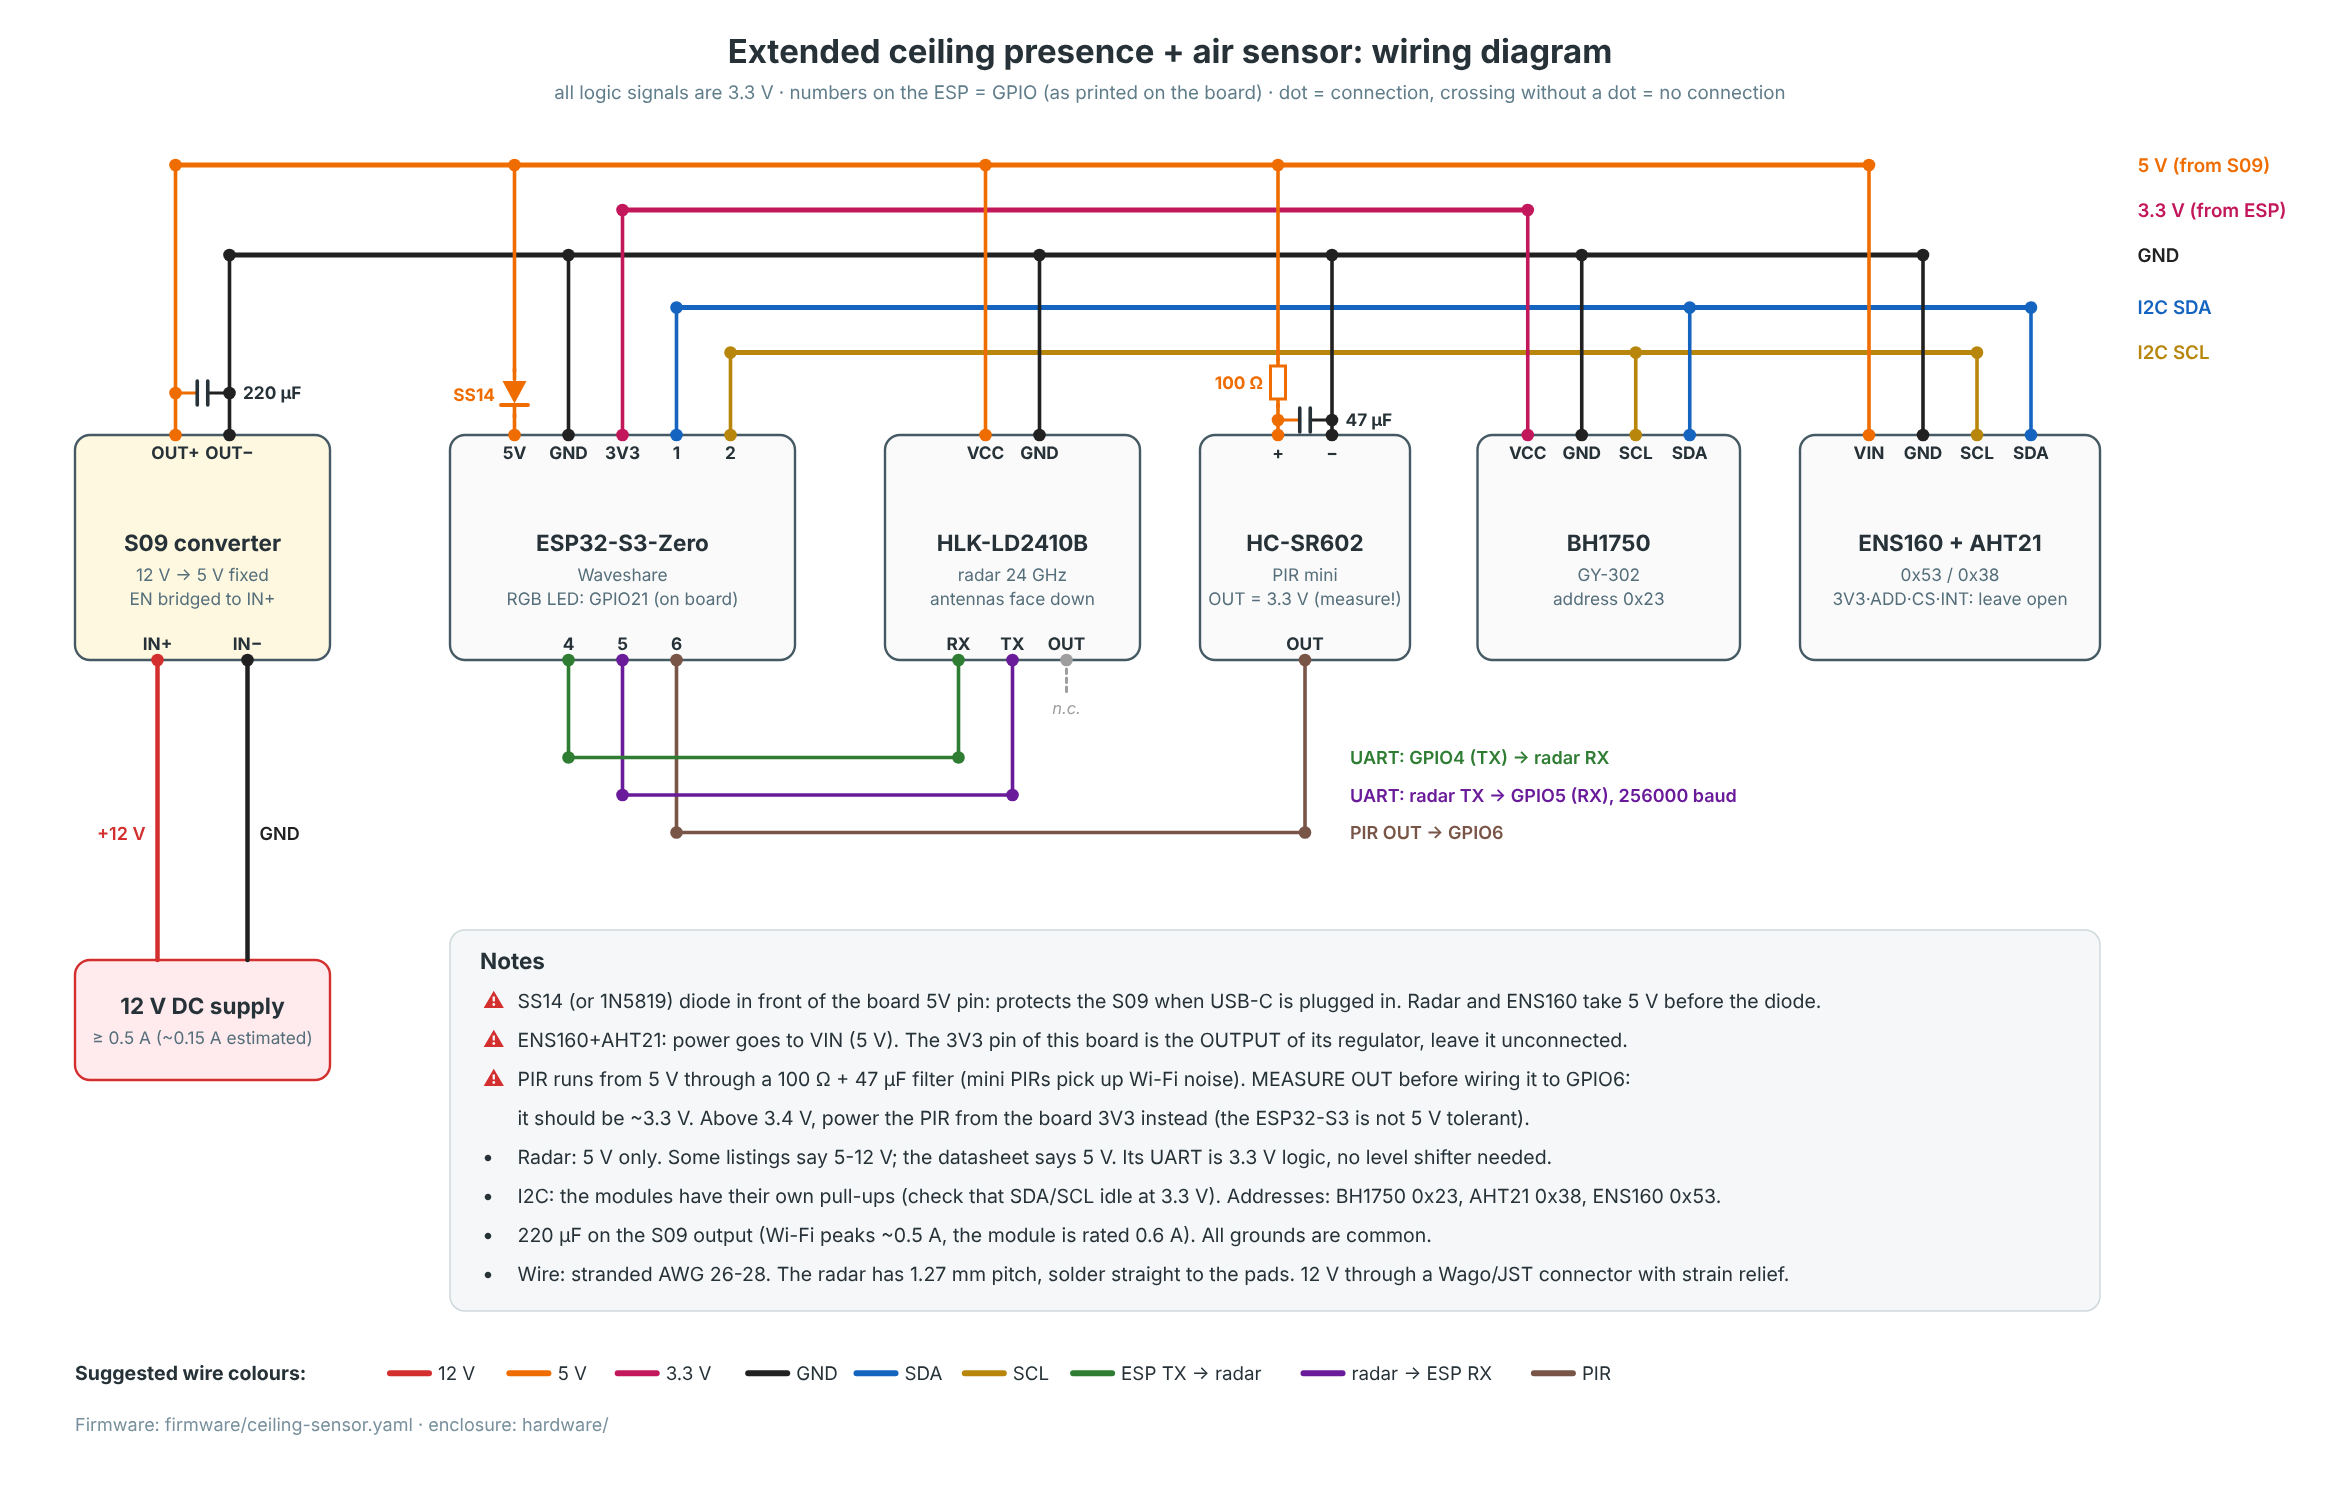
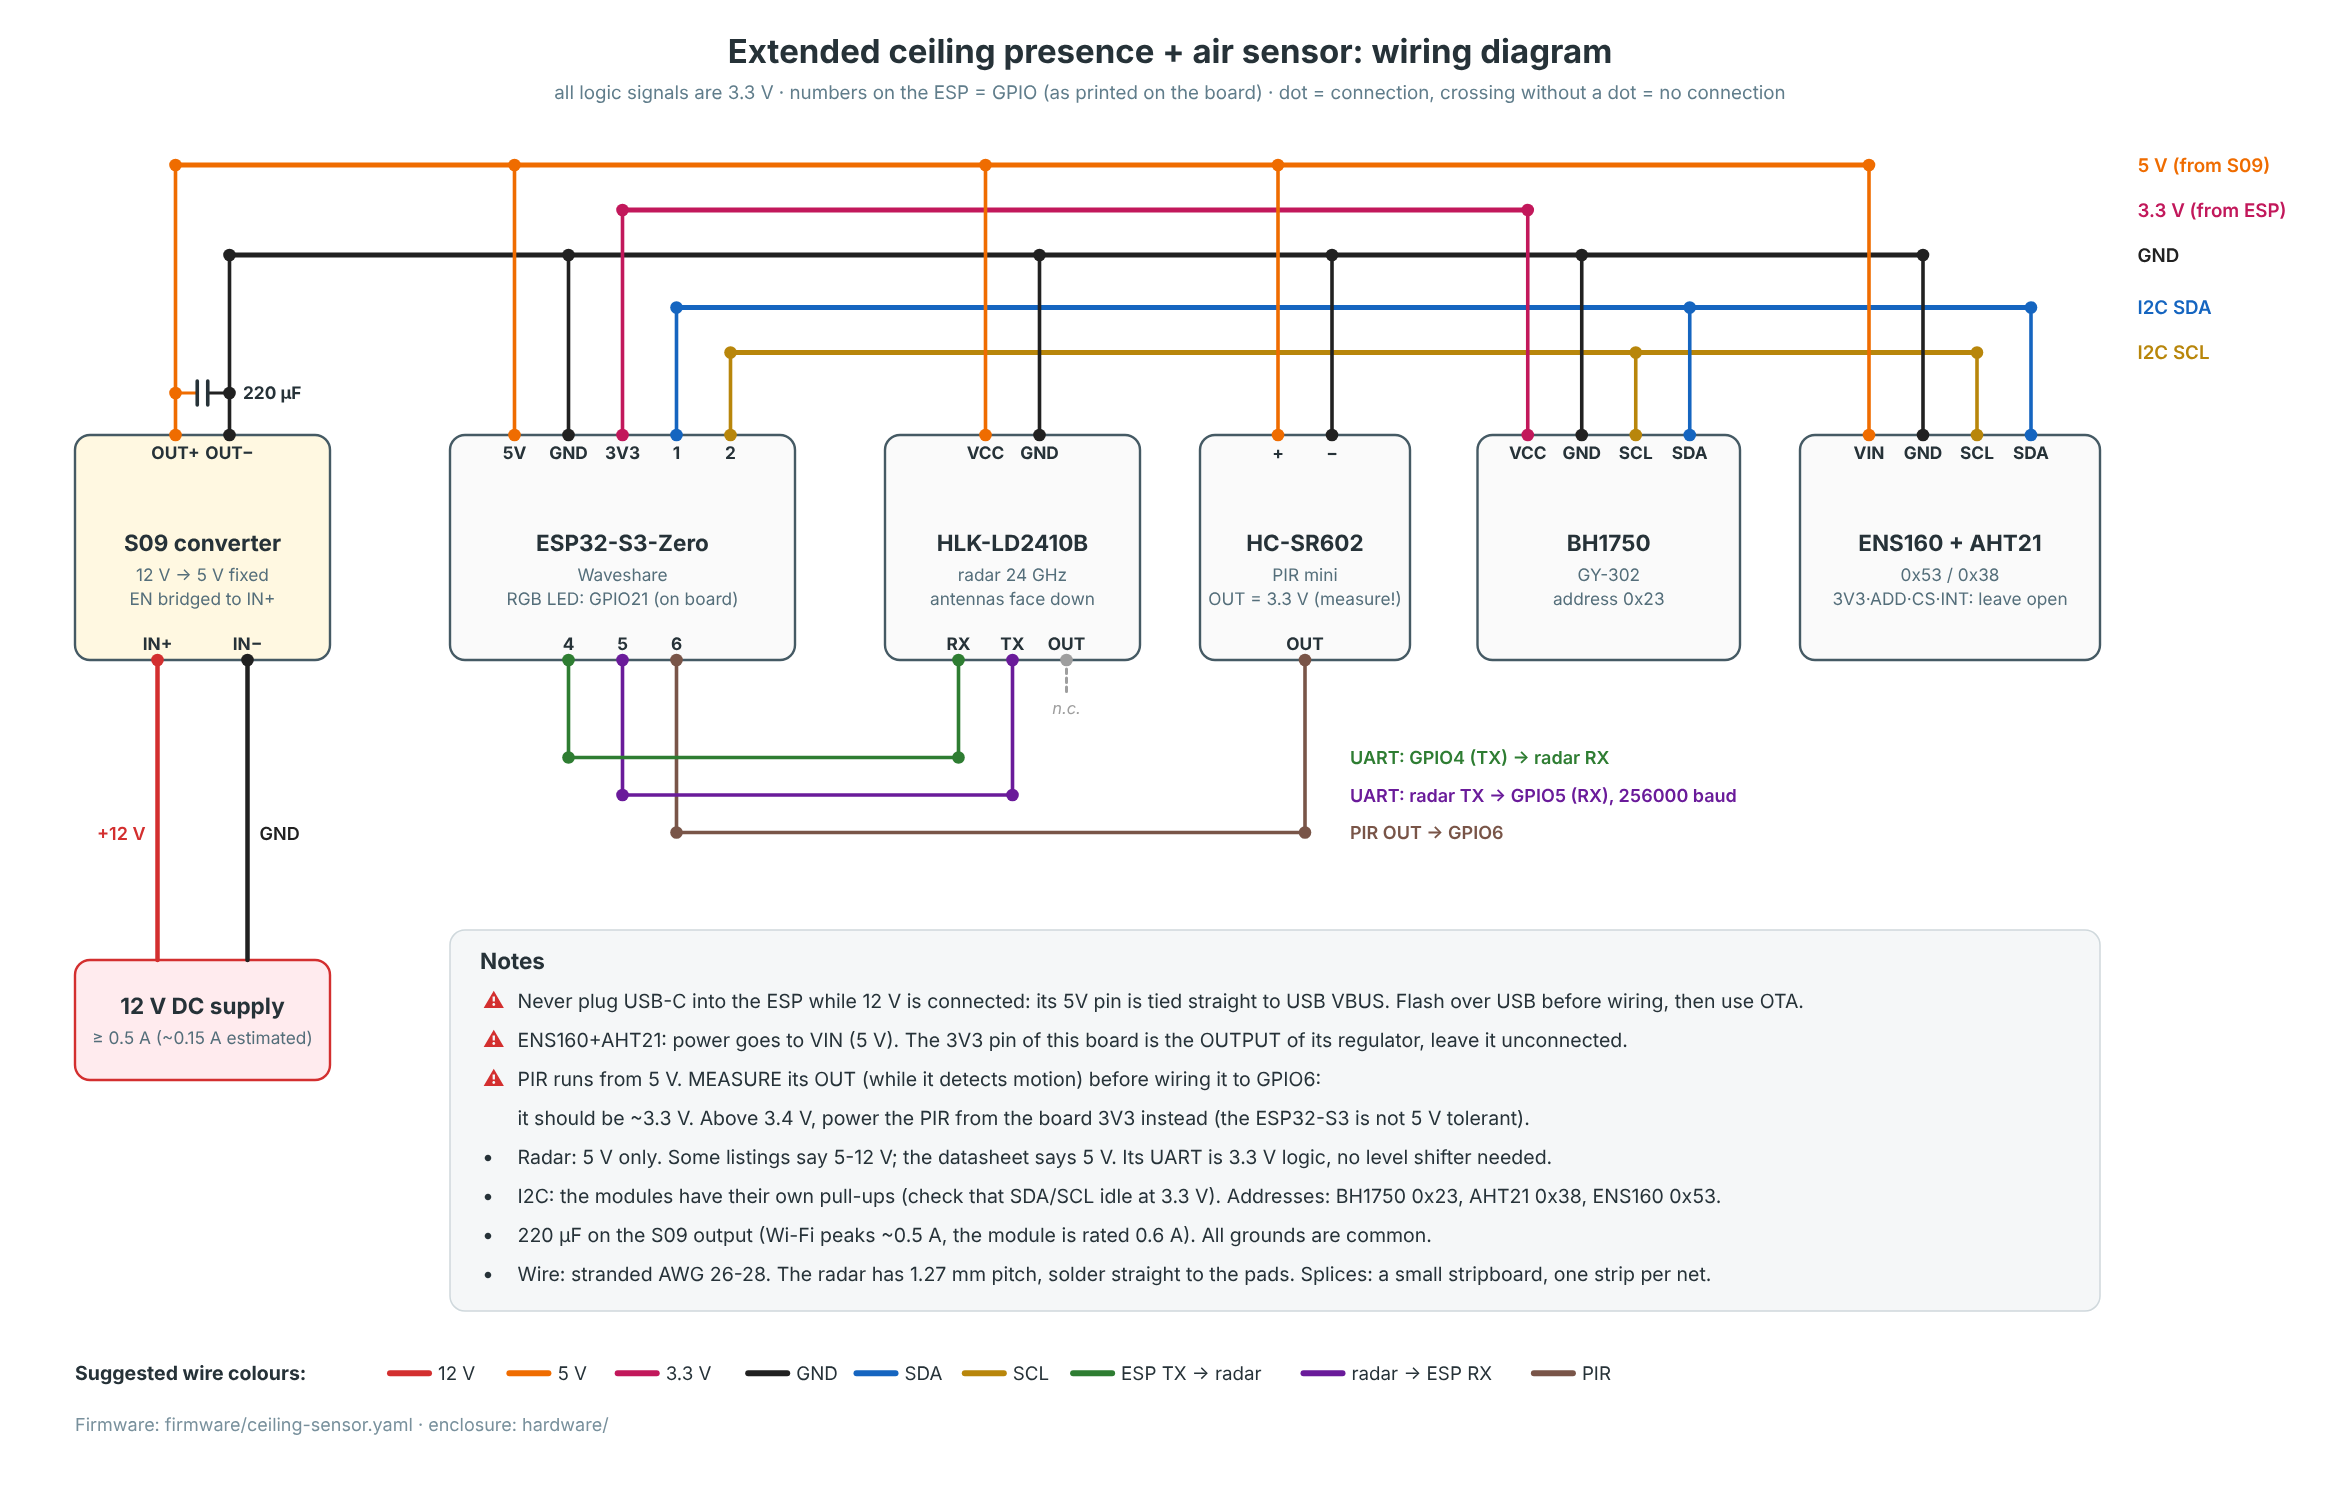
Simpler wiring: no diode, no PIR RC filter
The only extra part left is the 220 µF on the S09 output. The diode and
the RC filter are now listed as optional parts. The new rule is to
never connect USB and 12 V at the same time. A stripboard junction
replaces the in-line splices. Diagram, wiring, BOM, tuning and firmware
docs are updated to match.

Claude-Session: https://claude.ai/code/session_012hTjUXJJHKxpQwcsCnExu2

diff --git a/hardware/source/wiring_diagram.py b/hardware/source/wiring_diagram.py
@@ -140,10 +140,7 @@ def cap_between(xa, xb, y, lbl, col_a, col_b):
     dot(xa, y, col_a); dot(xb, y, col_b)
     text(xb + 9, y + 4, lbl, 11.5, anchor="start", weight="700")
 xe = pinpos[("esp", "5V")]
-diode_down(xe, 262, "SS14")
 xp, xpg = pinpos[("pir", "+")], pinpos[("pir", "−")]
-resistor(xp, 255, "100 Ω")
-cap_between(xp, xpg, 280, "47 µF", C["v5"], C["gnd"])
 xo, xog = pinpos[("buck", "OUT+")], pinpos[("buck", "OUT−")]
 cap_between(xo, xog, 262, "220 µF", C["v5"], C["gnd"])
 
@@ -161,14 +158,14 @@ text(xgnd + 8, 560, "GND", 12, anchor="start", weight="600", col=C["gnd"])
 
 # ---------------------------------------------------------------- notes
 notes = [
-    ("⚠", "SS14 (or 1N5819) diode in front of the board 5V pin: protects the S09 when USB-C is plugged in. Radar and ENS160 take 5 V before the diode."),
+    ("⚠", "Never plug USB-C into the ESP while 12 V is connected: its 5V pin is tied straight to USB VBUS. Flash over USB before wiring, then use OTA."),
     ("⚠", "ENS160+AHT21: power goes to VIN (5 V). The 3V3 pin of this board is the OUTPUT of its regulator, leave it unconnected."),
-    ("⚠", "PIR runs from 5 V through a 100 Ω + 47 µF filter (mini PIRs pick up Wi-Fi noise). MEASURE OUT before wiring it to GPIO6:"),
+    ("⚠", "PIR runs from 5 V. MEASURE its OUT (while it detects motion) before wiring it to GPIO6:"),
     (" ", "it should be ~3.3 V. Above 3.4 V, power the PIR from the board 3V3 instead (the ESP32-S3 is not 5 V tolerant)."),
     ("•", "Radar: 5 V only. Some listings say 5-12 V; the datasheet says 5 V. Its UART is 3.3 V logic, no level shifter needed."),
     ("•", "I2C: the modules have their own pull-ups (check that SDA/SCL idle at 3.3 V). Addresses: BH1750 0x23, AHT21 0x38, ENS160 0x53."),
     ("•", "220 µF on the S09 output (Wi-Fi peaks ~0.5 A, the module is rated 0.6 A). All grounds are common."),
-    ("•", "Wire: stranded AWG 26-28. The radar has 1.27 mm pitch, solder straight to the pads. 12 V through a Wago/JST connector with strain relief."),
+    ("•", "Wire: stranded AWG 26-28. The radar has 1.27 mm pitch, solder straight to the pads. Splices: a small stripboard, one strip per net."),
 ]
 ny = 620
 e(f'<rect x="300" y="{ny}" width="1100" height="{len(notes) * 26 + 46}" rx="10" fill="#f5f7f8" stroke="#cfd8dc"/>')

diff --git a/docs/wiring.md b/docs/wiring.md
@@ -8,7 +8,7 @@ The diagram is generated by [`hardware/source/wiring_diagram.py`](../hardware/so
 
 | ESP32-S3-Zero pin | Goes to |
 |---|---|
-| 5V | S09 5 V output through the SS14 diode (anode at the S09, cathode/stripe at the board) |
+| 5V | S09 5 V output |
 | 3V3 | BH1750 VCC |
 | GND | every GND |
 | GPIO1 | I2C SDA: BH1750 SDA, ENS160+AHT21 SDA |
@@ -18,36 +18,37 @@ The diagram is generated by [`hardware/source/wiring_diagram.py`](../hardware/so
 | GPIO6 | HC-SR602 OUT |
 | GPIO21 | on-board WS2812 LED, nothing to connect |
 
-Straight from the S09 5 V output, before the diode:
+Also from the S09 5 V output:
 
 | Module | Pin |
 |---|---|
 | LD2410B | VCC (5 V only) |
 | ENS160+AHT21 | VIN. Its 3V3 pin is the output of the on-board regulator, leave it unconnected. ADD, CS and INT stay unconnected too. |
-| HC-SR602 | + through 100 Ω, with 47 µF from that node to GND |
+| HC-SR602 | + |
 
 ## Power
 
 The S09 has an EN (enable) pin and only runs while EN is high. Bridge EN to its VIN+ pad with a short wire or a solder blob.
 
 ```
-12 V ──► S09 (EN─VIN+) ── OUT 5 V ─┬─► SS14 ──► ESP32-S3-Zero 5V pin
+12 V ──► S09 (EN─VIN+) ── OUT 5 V ─┬─► ESP32-S3-Zero 5V pin
                (220 µF on OUT)      ├─► LD2410B VCC
                                     ├─► ENS160+AHT21 VIN
-                                    └─► 100 Ω ─┬─► HC-SR602 +
-                                               └─ 47 µF ─► GND
+                                    └─► HC-SR602 +
 GND common to everything
 ```
 
+The only extra part is the 220 µF capacitor, soldered straight onto the S09 output pads.
+
 Notes:
 
-- Keep the SS14 diode. The ESP32-S3-Zero 5V pin is tied to USB-C VBUS. Without the diode, plugging in a USB cable back-feeds the S09. With it, the board sees about 4.7 V, which its 3.3 V regulator handles fine. Inside the enclosure the USB-C port isn't reachable anyway, so the first flash happens on the bench and later updates go over the air.
+- Never plug USB-C into the ESP while the sensor is on 12 V. The ESP32-S3-Zero 5V pin is tied straight to USB VBUS, so the computer's USB port and the S09 would end up driving the same 5 V line. Do the first flash over USB before you connect the 5 V wire; after that, updates go over Wi-Fi (inside the housing the USB-C port isn't reachable anyway). If you ever need USB again, disconnect 12 V or the ESP 5V wire first.
 - Don't use a linear regulator from 12 V. A 7805 or AMS1117 dropping 12 V to 5 V at ~0.3 A burns about 2 W inside a closed 80 mm box, which ruins the temperature reading.
 - The radar wants 5 V. Some listings say "5-12 V"; the LD2410B datasheet says 5 V and a supply that can deliver more than 200 mA. Its UART is 3.3 V logic, so it connects to the ESP directly.
 - Put 220 µF on the S09 output. Wi-Fi transmit peaks can reach ~0.5 A and the S09 is rated 0.6 A; the capacitor covers the current spikes.
 - Measure PIR OUT before connecting it to GPIO6. OUT only goes high on motion, so wave a hand in front of the lens while you measure. The HC-SR602 has its own regulator and normally outputs ~3.3 V even when fed 5 V, but clones vary. If you read more than 3.4 V, power the PIR from the ESP 3V3 pin instead. The ESP32-S3 is not 5 V tolerant.
 - Check the I2C pull-ups on the ENS160 board too. With only VIN (5 V) and GND connected, measure SDA and SCL against GND. They should sit at about 3.3 V (the board's own regulator). If they read 5 V, the pull-ups go to VIN and would put 5 V on GPIO1/2; feed that board from the ESP 3V3 pin instead.
-- The RC filter on the PIR (100 Ω + 47 µF) is there because mini PIRs pick up 2.4 GHz noise from the ESP's own Wi-Fi and fire on their own. If they still do, uncomment `output_power: 8.5dB` in the YAML.
+- Mini PIRs can pick up 2.4 GHz noise from the ESP's own Wi-Fi and fire on their own. If `PIR motion` triggers in an empty room, first uncomment `output_power: 8.5dB` in the YAML. If that isn't enough, add the RC filter from the optional parts below.
 - The I2C modules already have pull-up resistors. Addresses: BH1750 `0x23`, AHT21 `0x38`, ENS160 `0x53`. If the ENS160 doesn't show up, check the I2C scan in the logs; some boards use `0x52`.
 
 ## Wires and soldering
@@ -55,7 +56,16 @@ Notes:
 - Stranded AWG 26-28, about 8-10 cm per module. Silicone wire bends better around the seats.
 - The LD2410B has 1.27 mm pads. Solder thin wires directly; don't try to fit a header.
 - If you do use pin headers on the other boards, insert them from the top (plastic above the board) and trim the pin ends underneath. Every seat leaves 2-3 mm of space below the board for pin stubs and solder.
-- Solder the SS14, the 100 Ω resistor and the 47 µF capacitor in-line on the wires and cover them with heat shrink. The 220 µF sits next to the S09.
+- GND goes to six modules, 5 V to four, SDA and SCL to two. Instead of splicing wires in the air, use a small piece of stripboard (2.54 mm, about 5 strips × 8 holes): one copper strip per net (5V, GND, SDA, SCL, 3V3), each module's wire soldered into its strip. Check the strips for shorts with a meter before connecting the modules.
 - Bring 12 V in through a Wago/JST connector and tie the cable for strain relief: while you twist the housing onto the base, it hangs on that cable.
+
+## Optional parts
+
+Not needed for the sensor to work; add them if you want the extra protection:
+
+| Part | Where | What it does |
+|---|---|---|
+| Schottky diode 1N5819 / SS14 (any 1N581x, SS14-SS34 works; a 1N4001-4007 too, the ESP then gets ~4.2 V, still fine) | between the S09 5 V and the ESP 5V pin, stripe towards the ESP | Lets you plug in USB-C while 12 V is connected, without the two 5 V sources meeting. Radar, ENS160 and PIR stay on the 5 V before the diode. |
+| 100 Ω resistor + 47 µF capacitor | 100 Ω in series with the PIR +, 47 µF from PIR + to GND | RC filter against Wi-Fi noise on the PIR supply, if `output_power` alone doesn't stop false triggers. |
 
 Estimated current (from datasheets, not measured): ~0.3 A at 5 V with peaks around 0.5 A during Wi-Fi transmit, which is ~0.15 A or 1.5-2 W from 12 V.

diff --git a/docs/bom.md b/docs/bom.md
@@ -23,12 +23,10 @@ You can leave out the PIR. The firmware then runs presence on the radar alone, a
 
 | Part | Qty | Notes |
 |---|---|---|
-| Schottky diode SS14 (SMD) or 1N5819 | 1 | In front of the ESP 5V pin, see [wiring](wiring.md). Not optional. |
-| Resistor 100 Ω | 1 | PIR supply filter |
-| Electrolytic capacitor 47 µF, ≥10 V | 1 | PIR supply filter |
 | Electrolytic capacitor 220 µF, ≥10 V | 1 | On the S09 output |
 | Stranded wire AWG 26-28 | ~1 m | Silicone wire is easiest to route |
-| Heat shrink tube 1.5-3 mm | a few cm | For the diode / resistor soldered in-line |
+| Stripboard 2.54 mm | ~18 × 20 mm | Junction for 5V / GND / SDA / SCL / 3V3, one strip per net |
+| Heat shrink tube 1.5-3 mm | a few cm | Insulating the stripboard and wire joints |
 | Wago 221 or JST connector | 1 | 12 V input inside the box, with strain relief |
 | Hot glue | | A dot on the board ends if a seat ever loosens |
 | Foam strip ~1 mm | ~25 cm | Optional, on the housing rim against the ceiling |

diff --git a/docs/firmware.md b/docs/firmware.md
@@ -23,7 +23,7 @@ For a second room, copy the file and change only the substitutions.
 
 ## 3. First flash over USB
 
-Do this on the bench, before the board goes into the housing.
+Do this on the bench, before the ESP's 5V wire is connected to the S09. The 5V pin is tied straight to USB, so never have USB and 12 V connected at the same time (see [wiring](wiring.md)).
 
 1. Connect the ESP32-S3-Zero to your computer with a USB-C **data** cable. It doesn't need the 12 V supply for this.
 2. In the Device Builder: **Install → Plug into this computer** (needs Chrome or Edge, it uses Web Serial). Alternatively **Install → Manual download → Factory format** and flash the `.bin` with [web.esphome.io](https://web.esphome.io).

diff --git a/docs/tuning.md b/docs/tuning.md
@@ -23,7 +23,7 @@ To calibrate it, put a reference thermometer at about 1.5 m for a day, compare t
 
 ## PIR false triggers
 
-Mini PIRs are sensitive to the ESP's own 2.4 GHz transmissions. The 100 Ω + 47 µF filter on the PIR supply is there to stop that. If `PIR motion` still fires in an empty room, uncomment `output_power: 8.5dB` in the `wifi:` block.
+Mini PIRs are sensitive to the ESP's own 2.4 GHz transmissions. If `PIR motion` fires in an empty room, uncomment `output_power: 8.5dB` in the `wifi:` block. If that isn't enough, add the optional 100 Ω + 47 µF filter from [wiring](wiring.md#optional-parts).
 
 ## Status LED
 
